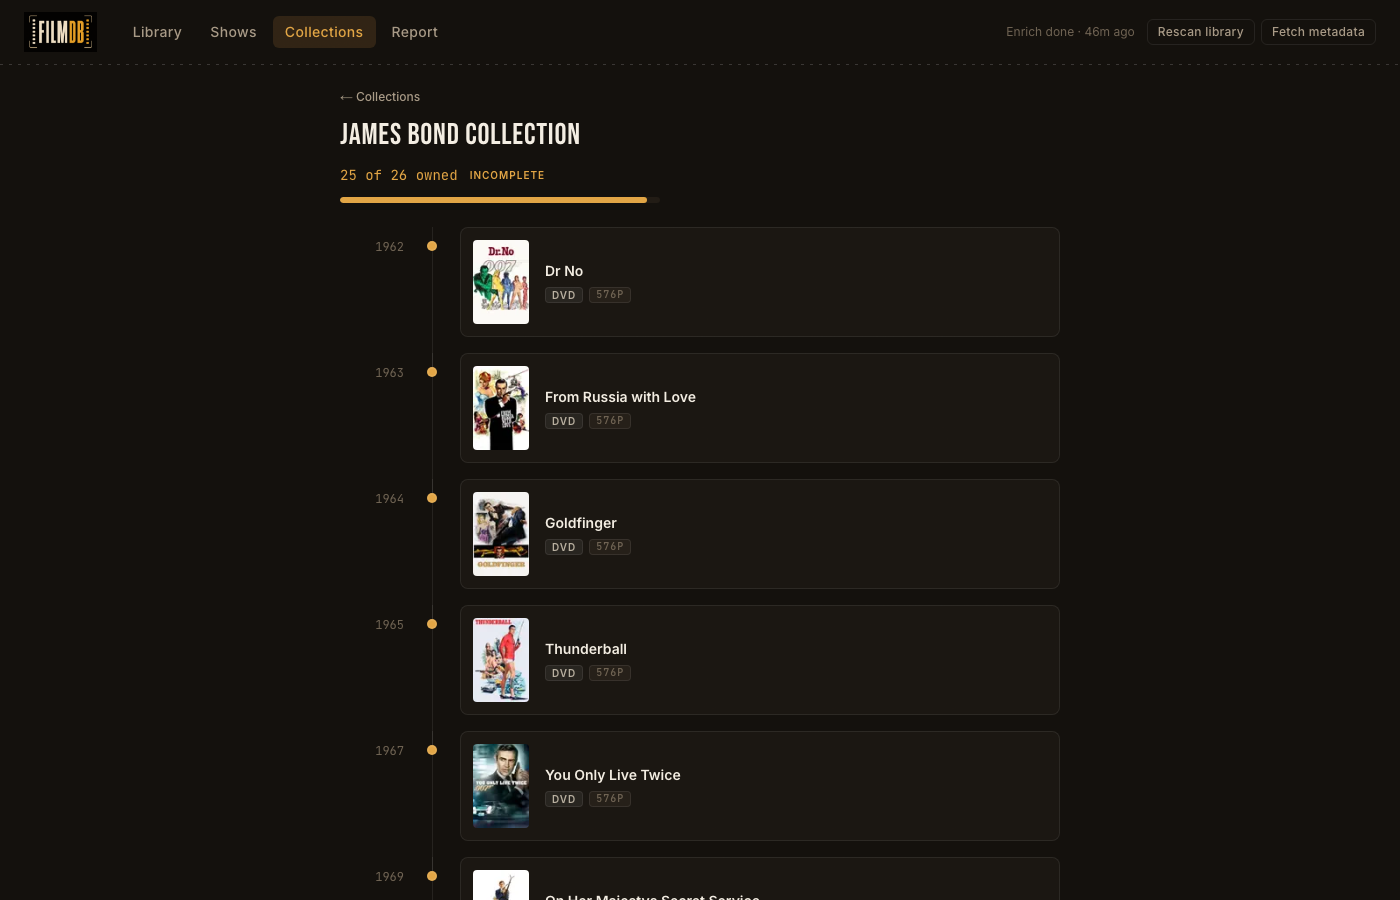
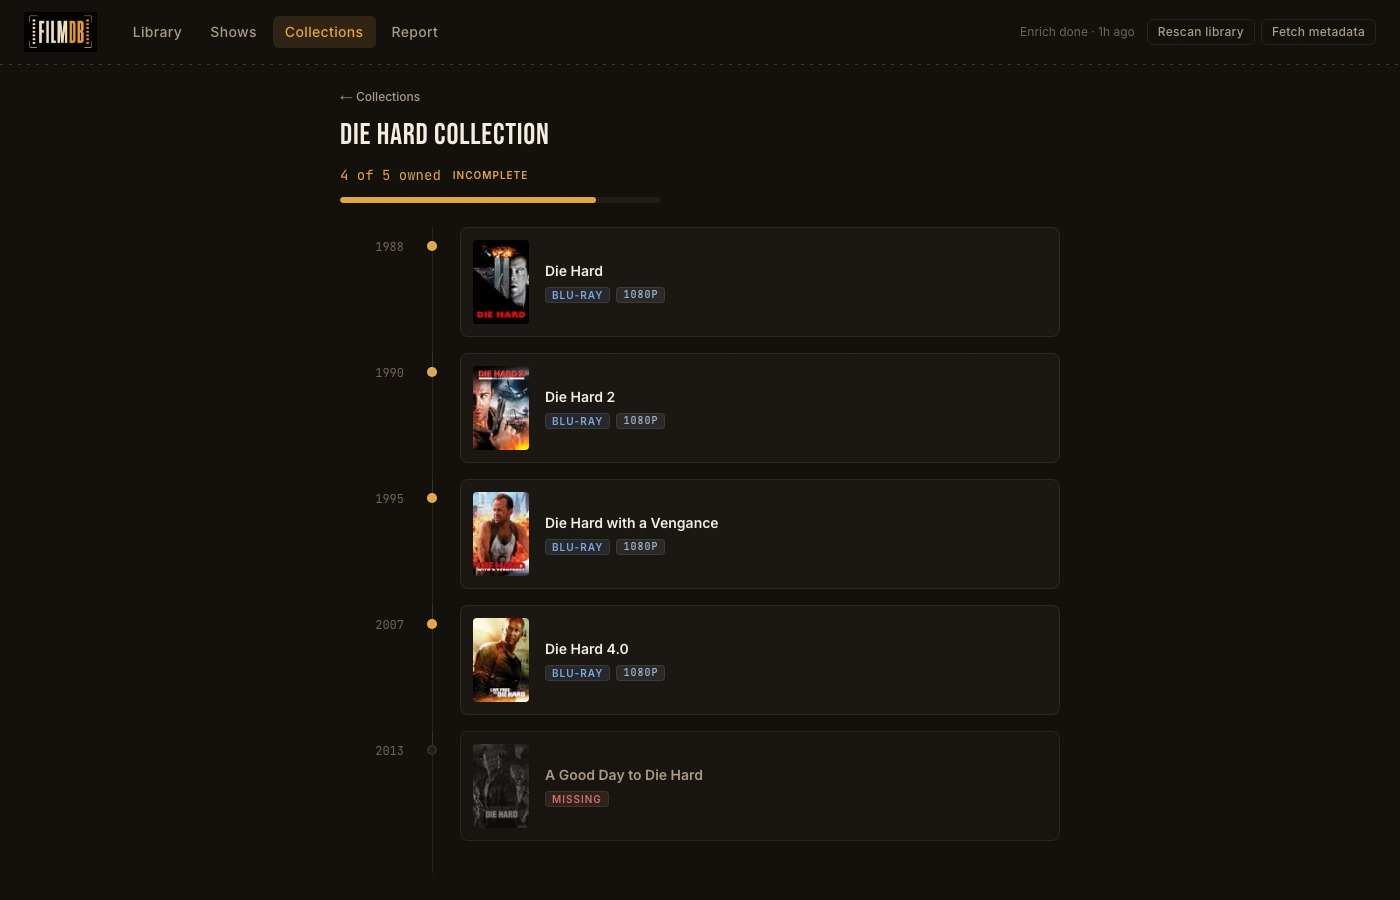
Report deep-link expansion (?open=collections,...); screenshot refresh
The collection-timeline screenshot is now the Die Hard collection, which
shows a missing entry in frame; added an expanded missing-from-collections
capture. The ?open param lets the server pre-expand report sections — used
for the screenshot and handy for deep links.

diff --git a/src/app/report/page.tsx b/src/app/report/page.tsx
@@ -27,15 +27,17 @@ function CollapsibleSection({
   title,
   subtitle,
   count,
+  defaultOpen,
   children,
 }: {
   title: string;
   subtitle?: string;
   count: string;
+  defaultOpen?: boolean;
   children: React.ReactNode;
 }) {
   return (
-    <details className="group">
+    <details className="group" open={defaultOpen}>
       <summary className="flex cursor-pointer select-none list-none items-baseline gap-3 [&::-webkit-details-marker]:hidden">
         <svg
           viewBox="0 0 12 12"
@@ -53,11 +55,19 @@ function CollapsibleSection({
   );
 }
 
-export default async function ReportPage() {
-  const [{ totals, missingByCollection, upgradeCandidates, issues }, tv] = await Promise.all([
+export default async function ReportPage({
+  searchParams,
+}: {
+  searchParams: Promise<{ open?: string }>;
+}) {
+  const [{ totals, missingByCollection, upgradeCandidates, issues }, tv, params] = await Promise.all([
     getReportData(),
     getTvReportData(),
+    searchParams,
   ]);
+  // Deep-linkable expansion: /report?open=collections|upgrades|issues|shows
+  // (comma-separable). Sections default collapsed otherwise.
+  const open = new Set((params.open ?? "").split(",").filter(Boolean));
 
   const tiles: { label: string; value: number | string; tone?: "accent" | "missing" }[] = [
     { label: "Films owned", value: totals.filmsOwned },
@@ -108,6 +118,7 @@ export default async function ReportPage() {
 
       <CollapsibleSection
         title="Missing from collections"
+        defaultOpen={open.has("collections")}
         count={`${totals.missingCount} film${totals.missingCount === 1 ? "" : "s"} across ${missingByCollection.length} collection${missingByCollection.length === 1 ? "" : "s"}`}
       >
         {missingByCollection.length === 0 ? (
@@ -155,6 +166,7 @@ export default async function ReportPage() {
 
       <CollapsibleSection
         title="Blu-ray upgrade candidates"
+        defaultOpen={open.has("upgrades")}
         subtitle="Owned only on DVD — no Blu-ray version on disk."
         count={`${upgradeCandidates.length} film${upgradeCandidates.length === 1 ? "" : "s"}`}
       >
@@ -191,6 +203,7 @@ export default async function ReportPage() {
 
       <CollapsibleSection
         title="Library issues"
+        defaultOpen={open.has("issues")}
         subtitle="Films that could use another look — a low-confidence or missing metadata match, an unrecognised disc format, or no release year."
         count={`${issues.length} film${issues.length === 1 ? "" : "s"}`}
       >
@@ -227,6 +240,7 @@ export default async function ReportPage() {
 
       <CollapsibleSection
         title="Missing from shows"
+        defaultOpen={open.has("shows")}
         count={`${tv.episodesTotal - tv.episodesOwned} episode${tv.episodesTotal - tv.episodesOwned === 1 ? "" : "s"} across ${tv.missingByShow.length} show${tv.missingByShow.length === 1 ? "" : "s"}`}
       >
         {tv.missingByShow.length === 0 ? (

diff --git a/README.md b/README.md
@@ -35,6 +35,10 @@ pages, and a "what's missing" collector's report.
 | --- | --- |
 | ![Season-by-season episode lists](docs/screenshots/show-detail.png) | ![Collector's report with collapsible sections](docs/screenshots/report.png) |
 
+<p align="center">
+  <img src="docs/screenshots/report-expanded.png" alt="Missing-from-collections section expanded, showing gap posters per collection" width="900" />
+</p>
+
 ## Stack
 
 Next.js 15 (App Router) · Prisma 7 + SQLite · Tailwind v4 · ffprobe · TMDB
